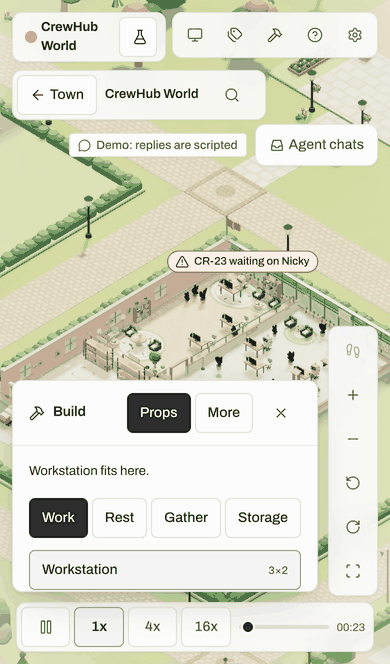
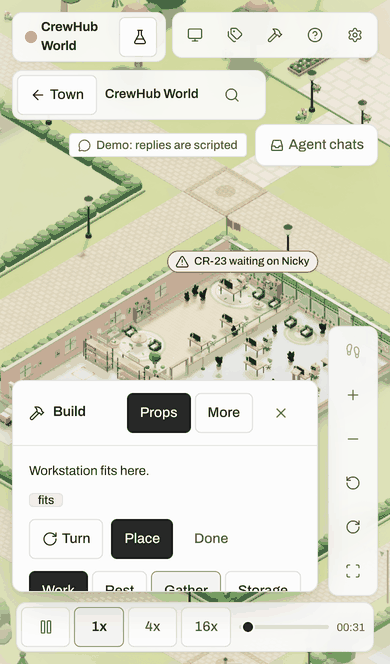
world: on a phone a chosen prop's Turn, Place and Done stand whole, and More opens at its top (w4-18, m1's review)
m1's review of d62db025 found a regression and two small faults:

- Scroll the palette until a row stands whole at the bottom and tap it: Turn, Place and Done went in above the groups,
  scroll anchoring held the row, and all three lay above the pinned sentence. Under 600 px the body now goes to its top
  when a prop is chosen or selected, or the part changes.
- That also covers More, which opened at the palette's scroll with Undo, Redo and New prop above the body.
- New prop's lower edge was cut in More: the sentence's negative margin lay over the toolbar. The pinned sentence's rule now
  holds on Props only.

One more, found while proving the first: with the key hints Done wrapped to a second row, under the short body's edge at
664 px high. The hints mean nothing to a thumb, so under 600 px they are hidden in those actions on Props. At 320 x 568
Done still wraps and is reached by scrolling.

Red first: a new row in tools/regress/walk.mjs, at 375 x 664. The after picture is retaken.

diff --git a/apps/world/src/components/BuildPanel.tsx b/apps/world/src/components/BuildPanel.tsx
@@ -3,11 +3,12 @@
    build mode is on. Kit Cards, Buttons, Fields and Chips only. On a phone (world.css, under 600 px, where the sheet lies
    over the lower part of the screen) two buttons show the palette alone or the rest, so the sheet stands shorter over
    the floor a prop goes on (round 65, walk finding w4-18); wider, the buttons are not drawn and everything shows. */
-import { useState, type FormEvent } from "react";
+import { useLayoutEffect, useRef, useState, type FormEvent } from "react";
 import { FlaskConical, Hammer, Pencil, Plus, Redo2, RotateCw, Trash2, Undo2, X } from "lucide-react";
 import type { Building, CatalogueGroupId } from "@crewhub/world-model";
 import type { BuildMode } from "../state/build";
 import type { TownState } from "../state/town";
+import { mediaList } from "../state/media";
 import { pageConfig } from "../state/page";
 import { useWorld } from "../state/runtimes";
 import { Button, Card, Chip, Field } from "./primitives";
@@ -30,6 +31,8 @@ interface Props {
 }
 
 const ROTATION_WORDS = ["facing the camera", "turned a quarter", "turned half", "turned three quarters"] as const;
+/** Where the sheet lies along the bottom of the screen (world.css). */
+const PHONE_SHEET = "(max-width: 600px)";
 
 export function BuildPanel({ build, town, plan, inside, demo, onClose, onUndo, onRedo, onEdit, onRequest }: Props) {
   const { model } = useWorld();
@@ -42,6 +45,12 @@ export function BuildPanel({ build, town, plan, inside, demo, onClose, onUndo, o
   const { state, check, selectedPlacement } = build;
   const chosen = state.propId ? town.catalogue.get(state.propId) : null;
   const selected = selectedPlacement ? town.catalogue.get(selectedPlacement.propId) : null;
+  // On a phone the short body is scrolled to its top when a prop is chosen or selected, or the part changes: Turn, Place and
+  // Done go in above a palette scrolled away, and More would open at the palette's scroll (m1's review of w4-18).
+  const body = useRef<HTMLDivElement>(null);
+  useLayoutEffect(() => {
+    if (body.current && mediaList(PHONE_SHEET).matches) body.current.scrollTop = 0;
+  }, [state.propId, state.selected, part]);
 
   const request = (e: FormEvent) => {
     e.preventDefault();
@@ -75,7 +84,7 @@ export function BuildPanel({ build, town, plan, inside, demo, onClose, onUndo, o
           </div>
         }
       />
-      <Card.Body>
+      <Card.Body ref={body}>
         <div className="build-toolbar" role="toolbar" aria-label="Build actions">
           <Button size="sm" icon={<Undo2 className="icon" aria-hidden="true" />} disabled={!town.canUndo} onClick={onUndo} title="Undo (Ctrl/Cmd+Z)">
             Undo

diff --git a/apps/world/src/styles/world.css b/apps/world/src/styles/world.css
@@ -1488,13 +1488,17 @@
     gap: var(--space-1);
   }
   /* The sentence that says whether the prop fits stays in view above a scrolled palette, and the groups take one sliding row. */
-  .build-status {
+  .build-sheet[data-part="props"] .build-status {
     position: sticky;
     top: calc(-1 * var(--space-4));
     z-index: 1;
     margin-top: calc(-1 * var(--space-4));
     padding-top: var(--space-4);
     background: var(--surface);
+  }
+  /* A key's hint means nothing to a thumb, and it wrapped Done to a second row, under the short body's edge. */
+  .build-sheet[data-part="props"] .card-body > .build-actions .btn-kbd {
+    display: none;
   }
   .build-groups {
     flex-wrap: nowrap;
